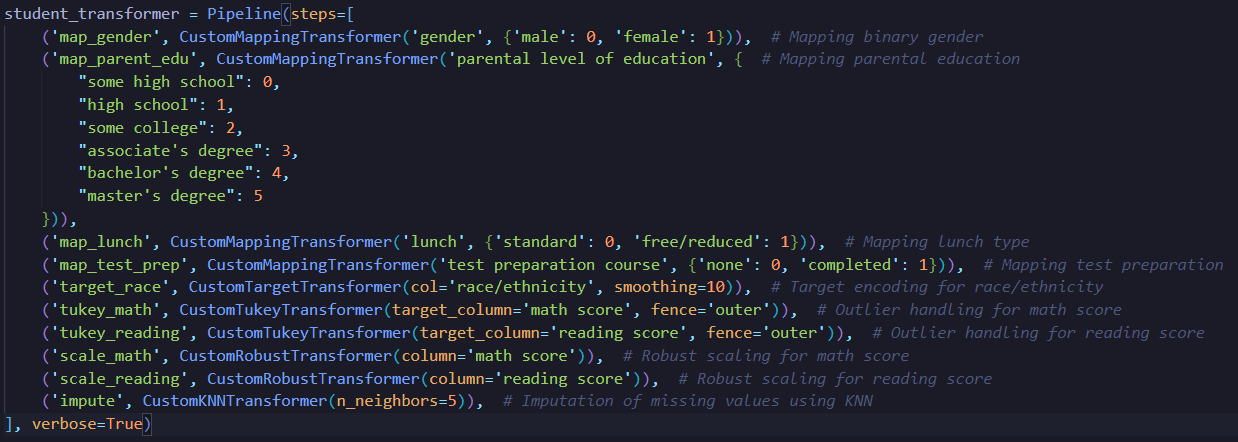
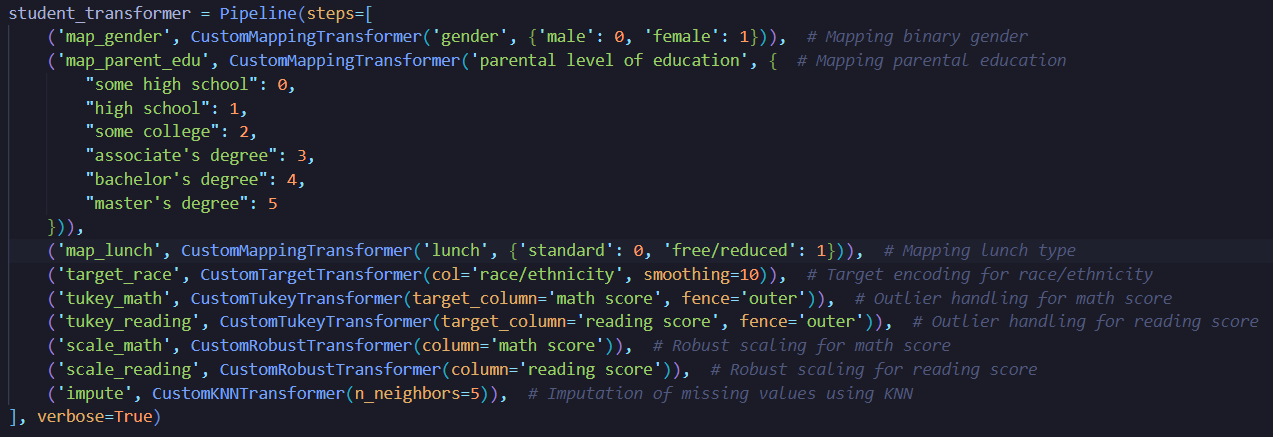
updating files

Changed region(s): [[0.0, 0.476, 1.0, 0.9817], [0.0, 0.0, 0.8595, 0.5057]]

diff --git a/library.py b/library.py
@@ -735,7 +735,6 @@ student_transformer = Pipeline(steps=[
         "master's degree": 5
     })),
     ('map_lunch', CustomMappingTransformer('lunch', {'standard': 0, 'free/reduced': 1})),  # Mapping lunch type
-    ('map_test_prep', CustomMappingTransformer('test preparation course', {'none': 0, 'completed': 1})),  # Mapping test preparation
     ('target_race', CustomTargetTransformer(col='race/ethnicity', smoothing=10)),  # Target encoding for race/ethnicity
     ('tukey_math', CustomTukeyTransformer(target_column='math score', fence='outer')),  # Outlier handling for math score
     ('tukey_reading', CustomTukeyTransformer(target_column='reading score', fence='outer')),  # Outlier handling for reading score

diff --git a/pipeDoc/pipelineGuide.md b/pipeDoc/pipelineGuide.md
@@ -20,13 +20,7 @@
 - **Design Choice:** Binary encoding of lunch type
 - **Rationale:** Free/reduced lunch may correlate with socioeconomic status; encoding allows the model to capture this factor
 
-## 4. Test Preparation Course Mapping (`map_test_prep`)
-
-- **Transformer:** CustomMappingTransformer('test preparation course', {'none': 0, 'completed': 1})
-- **Design Choice:** Binary encoding of whether test preparation course was completed
-- **Rationale:** Converts the target feature into numeric binary format for easier processing in supervised learning
-
-## 5. Target Encoding for Race/Ethnicity (`target_race`)
+## 4. Target Encoding for Race/Ethnicity (`target_race`)
 
 - **Transformer:** CustomTargetTransformer(col='race/ethnicity', smoothing=10)
 - **Design Choice:** Target encoding with smoothing factor of 10
@@ -34,31 +28,31 @@
   - Converts nominal categorical variable into numeric representation based on its relationship with the target
   - Smoothing prevents overfitting by balancing category means with global mean
 
-## 6. Outlier Treatment for Math Score (`tukey_math`)
+## 5. Outlier Treatment for Math Score (`tukey_math`)
 
 - **Transformer:** CustomTukeyTransformer(target_column='math score', fence='outer')
 - **Design Choice:** Tukey method using outer fences to detect extreme outliers
 - **Rationale:** Protects model from extreme math score outliers that could distort model performance
 
-## 7. Outlier Treatment for Reading Score (`tukey_reading`)
+## 6. Outlier Treatment for Reading Score (`tukey_reading`)
 
 - **Transformer:** CustomTukeyTransformer(target_column='reading score', fence='outer')
 - **Design Choice:** Tukey method using outer fences for outlier detection
 - **Rationale:** Same rationale as math score; removes extreme values that could bias learning
 
-## 8. Scaling for Math Score (`scale_math`)
+## 7. Scaling for Math Score (`scale_math`)
 
 - **Transformer:** CustomRobustTransformer(column='math score')
 - **Design Choice:** Robust scaling using median and interquartile range
 - **Rationale:** Minimizes impact of outliers while normalizing scale for math scores
 
-## 9. Scaling for Reading Score (`scale_reading`)
+## 8. Scaling for Reading Score (`scale_reading`)
 
 - **Transformer:** CustomRobustTransformer(column='reading score')
 - **Design Choice:** Robust scaling using median and interquartile range
 - **Rationale:** Same as math score scaling, ensuring both numeric features are robustly scaled
 
-## 10. Imputation (`impute`)
+## 9. Imputation (`impute`)
 
 - **Transformer:** CustomKNNTransformer(n_neighbors=5)
 - **Design Choice:** KNN imputation using 5 nearest neighbors
